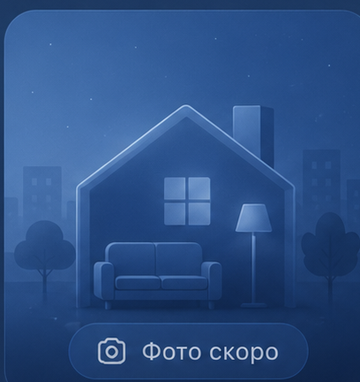
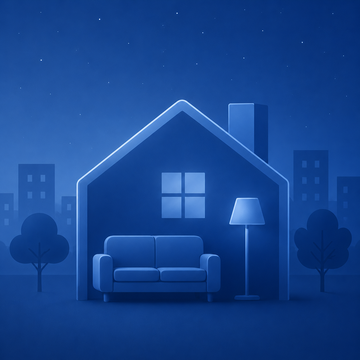
images

diff --git a/lib/presentation/widgets/listing_tile.dart b/lib/presentation/widgets/listing_tile.dart
@@ -993,6 +993,18 @@ class _ListingTileState extends State<ListingTile> {
   static const String _noPhotoPlaceholderAssetLight =
       "assets/images/uydosh_light_no_photo_placeholder.png";
 
+  /// Dedicated "no photo yet" artwork for the *room needed* listing type
+  /// (listingTypeId == 1) — a seeker-themed illustration shown instead of the
+  /// generic house when a listing of that type has no photo.
+  static const String _roomNeededPlaceholderAsset =
+      "assets/images/uydosh_room_needed_no_photo_placeholder.png";
+  static const String _roomNeededPlaceholderAssetLight =
+      "assets/images/uydosh_light_room_needed_no_photo_placeholder.png";
+
+  /// Listing type id for "room needed" (see [ListingUtils]). Listings of this
+  /// type use the seeker-themed placeholder above.
+  static const int _roomNeededListingTypeId = 1;
+
   /// Short, badge-friendly label for a listing type code (e.g. "Сосед").
   /// The roommate label is gendered where the language distinguishes it
   /// (ru: "Сосед" / "Соседка"). Returns null for unknown codes so the badge
@@ -1236,8 +1248,16 @@ class _ListingTileState extends State<ListingTile> {
   /// are picked automatically. Falls back to a neutral tile if the asset fails.
   Widget _thumbnailPlaceholder(ColorScheme scheme) {
     final isLight = ThemeState().isLightTheme;
-    final asset =
-        isLight ? _noPhotoPlaceholderAssetLight : _noPhotoPlaceholderAsset;
+    final isRoomNeeded =
+        widget.listing.listingTypeId == _roomNeededListingTypeId;
+    final String asset;
+    if (isRoomNeeded) {
+      asset = isLight
+          ? _roomNeededPlaceholderAssetLight
+          : _roomNeededPlaceholderAsset;
+    } else {
+      asset = isLight ? _noPhotoPlaceholderAssetLight : _noPhotoPlaceholderAsset;
+    }
     // Backdrop gradient sampled from the artwork's own background so the
     // letterbox area (when the media cell is taller/shorter than the image)
     // blends seamlessly — the illustration is shown with `contain` so its

diff --git a/ios/Runner/FloorPlanCanvas.swift b/ios/Runner/FloorPlanCanvas.swift
@@ -197,13 +197,15 @@ final class FloorPlanCanvas: UIView {
     )
 
     if showObjects {
+      // Suppress furniture text labels while dimensions are visible: the two label
+      // sets overlap and look cluttered. Shapes still render so the layout reads clearly.
       FloorPlanObjectRenderer.draw(
         objects: model.objects,
         in: ctx,
         transform: transform,
-        fillColor: UIColor(red: 0.78, green: 0.86, blue: 0.92, alpha: 0.75),
+        fillColor: UIColor(red: 0.78, green: 0.86, blue: 0.92, alpha: 0.35),
         strokeColor: UIColor(red: 0.22, green: 0.38, blue: 0.48, alpha: 1),
-        showLabels: true
+        showLabels: dimensionMode == .hidden
       )
     }
 

diff --git a/ios/Runner/FloorPlanRenderers.swift b/ios/Runner/FloorPlanRenderers.swift
@@ -50,7 +50,7 @@ enum FloorPlanObjectRenderer {
 
       context.saveGState()
       let fill = object.isOutsideBounds
-        ? UIColor.systemOrange.withAlphaComponent(0.55)
+        ? UIColor.systemOrange.withAlphaComponent(0.30)
         : fillColor
       let stroke = object.isOutsideBounds
         ? UIColor.systemOrange
